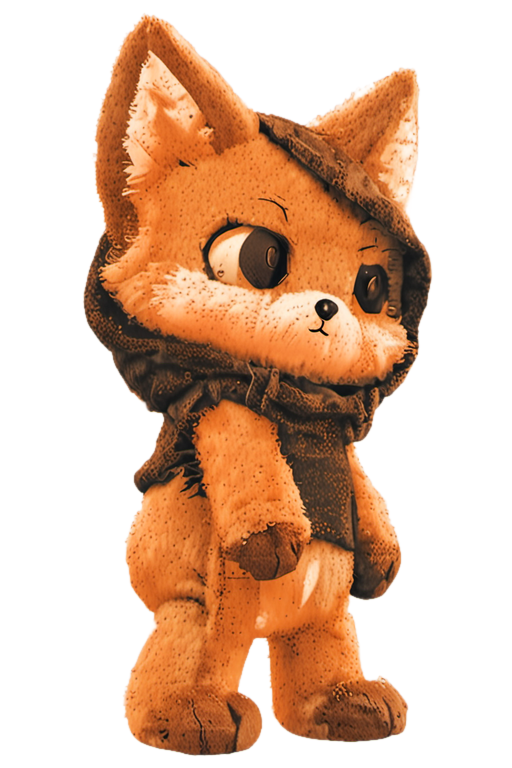
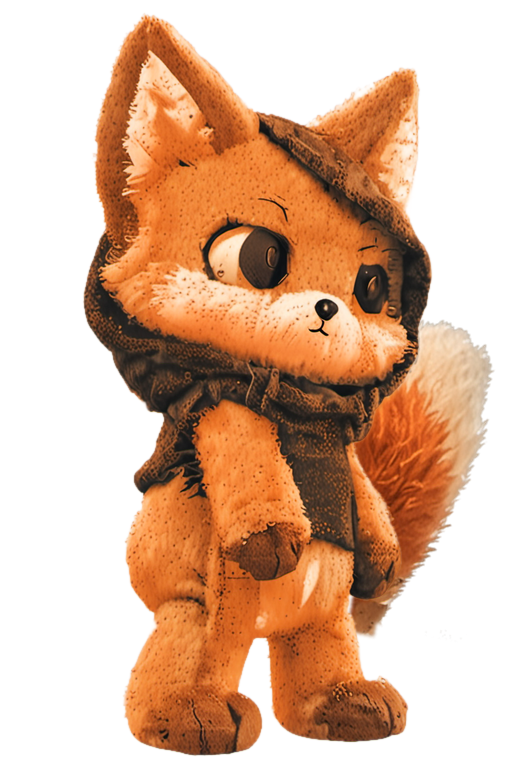
第二章 Fen 補上尾巴（立繪兩張、地圖小人）；白面維持沒有尾巴
Fen 的第二章圖是用白面的圖換色做的，白面沒有尾巴，Fen 也跟著沒了，屁股上還留著白面的縫線。
用出圖流程生一條狐狸尾巴疊上去，立繪再局部重繪成毛氈質感。紀錄見 docs/art_generated.md。

Claude-Session: https://claude.ai/code/session_019xJktu5FgJTgLTgH47hrmp

Changed region(s): [[0.6562, 0.4062, 0.9688, 0.8438]]

diff --git a/tools/art/fix/fen_tail_ch2.py b/tools/art/fix/fen_tail_ch2.py
@@ -1,0 +1,32 @@
+import sys
+# 第二章 Fen 補尾巴：python3 tools/art/fix/fen_tail_ch2.py tools/art/fix game <輸出資料夾>（尾巴素材 tools/art/fix/tail/crop.png）
+from PIL import Image, ImageDraw, ImageEnhance, ImageFilter
+S = sys.argv[1]; GAME = sys.argv[2]; OUT = sys.argv[3]
+t = Image.open(S + "/tail/crop.png").convert("RGBA")
+m = Image.new("L", t.size, 255); d = ImageDraw.Draw(m)
+d.polygon([(0, 390), (120, 470), (125, 650), (0, 650)], fill=0)      # 屁股
+d.rectangle((175, 585, 340, 650), fill=0)                             # 地面
+d.rectangle((0, 610, 340, 650), fill=0)
+a = Image.composite(t.getchannel("A"), Image.new("L", t.size, 0), m.filter(ImageFilter.GaussianBlur(3)))
+t.putalpha(a)
+t = ImageEnhance.Color(t).enhance(1.15)
+t = t.crop(t.getbbox())
+
+def put(fen_path, out_path, h, base, angle, mirror, front):
+    fen = Image.open(fen_path).convert("RGBA")
+    tt = t.transpose(Image.FLIP_LEFT_RIGHT) if mirror else t
+    s = h / tt.height
+    tt = tt.resize((max(1, int(tt.width * s)), h), Image.LANCZOS).rotate(angle, expand=True, resample=Image.BICUBIC)
+    layer = Image.new("RGBA", fen.size, (0, 0, 0, 0))
+    # base：尾巴根部（圖的下緣中間）要放的位置
+    layer.alpha_composite(tt, (int(base[0] - tt.width / 2), int(base[1] - tt.height)))
+    if front:
+        out = fen.copy(); out.alpha_composite(layer)
+    else:
+        out = layer; out.alpha_composite(fen)
+    out.save(out_path)
+
+P = GAME + "/art/ch2/characters/"
+for f in ["ch2_fen_portrait_a_default", "ch2_fen_portrait_a_away"]:
+    put(P + "portraits/%s.png" % f, OUT + "/%s.png" % f, 330, (405, 660), -12, False, False)
+put(P + "sprites/ch2_fen_sprite_stand_sheet.png", OUT + "/ch2_fen_sprite_stand_sheet.png", 60, (52, 142), 24, True, True)

diff --git a/docs/art_generated.md b/docs/art_generated.md
@@ -4,9 +4,9 @@
 
 | 檔案 | 用途 | 做法 |
 |---|---|---|
-| `game/art/ch2/characters/portraits/ch2_fen_portrait_a_default.png` | 第二章 Fen 立繪（預設：皺眉） | 白面立繪 `ch2_baimian_portrait_a_still.png` 依亮度換成 Fen 的配色 → ComfyUI img2img（強度 0.45）加上布偶質感與補丁 → 用白面的輪廓去背 |
-| `game/art/ch2/characters/portraits/ch2_fen_portrait_a_away.png` | 第二章 Fen 立繪（看向別處；結尾火車 `@face Fen away`） | 同上，底圖 `ch2_baimian_portrait_a_faraway.png`（強度 0.42） |
-| `game/art/ch2/characters/sprites/ch2_fen_sprite_stand_sheet.png` | 第二章河對岸的 Fen 地圖小人 | 白面站姿小人換色（沒有用 AI 重繪；**沒有尾巴**，因為底圖是白面） |
+| `game/art/ch2/characters/portraits/ch2_fen_portrait_a_default.png` | 第二章 Fen 立繪（預設：皺眉） | 白面立繪 `ch2_baimian_portrait_a_still.png` 依亮度換成 Fen 的配色 → ComfyUI img2img（強度 0.45）加上布偶質感與補丁 → 用白面的輪廓去背 → **補上尾巴**（見下） |
+| `game/art/ch2/characters/portraits/ch2_fen_portrait_a_away.png` | 第二章 Fen 立繪（看向別處；結尾火車 `@face Fen away`） | 同上，底圖 `ch2_baimian_portrait_a_faraway.png`（強度 0.42）→ 補上尾巴 |
+| `game/art/ch2/characters/sprites/ch2_fen_sprite_stand_sheet.png` | 第二章河對岸的 Fen 地圖小人 | 白面站姿小人換色 → 補上尾巴（蓋住屁股那圈縫線） |
 | `game/art/int_mirror.jpg` | 第一章鏡之屋室內（1280×720） | 依熱點位置畫的線稿（三面蓋布的鏡子改畫成「布垂下來」的形狀，避免變成門）→ ControlNet（union, lineart）鎖構圖＋ IP-Adapter（style transfer）參考 `int_lulu.jpg` 的畫風 → 縫死的鏡子手工補縫線 → 投信口的籃子、書桌上那疊很高的紙用局部重畫（inpaint）對齊劇本 |
 
 貓居民已廢案（2026-10-20 使用者決定），表情圖 `face_cat.png` 與程式裡的貓居民一併刪除。
@@ -14,6 +14,11 @@
 另外修正：`game/art/walk_puppy.png` 第 2、3 列（朝左、朝右）的第三格朝向畫反了，兩格對調（原圖在 Git 歷史裡）。
 
 設定依據：白面是從 Fen 身上剝離出來的那一半，兩隻狐狸是同一個身體（`docs/script/chapter2.md` 2.1），所以用白面的圖當底。
+
+### Fen 的尾巴（2026-10-20 修正）
+底圖是白面（白面**沒有**尾巴），換色後 Fen 也跟著沒了尾巴，屁股上還留著白面的縫線。設定：**Fen 有尾巴、白面沒有**。
+做法：SDXL＋IP-Adapter（參考 Fen 立繪）生一條狐狸尾巴、裁出來 → `tools/art/fix/fen_tail_ch2.py` 疊上（立繪放在身體後面、小人蓋在屁股上）→ 立繪再整張 img2img（強度 0.38），只把尾巴那塊換回來，讓真毛變成毛氈質感，臉不動。
+**以後用白面的圖做 Fen（或反過來）時，記得尾巴要加／要拿掉。**
 
 ## 工具與授權
 - ComfyUI 0.42（GPL-3.0；只用來產圖，產出的圖不受 GPL 約束）
